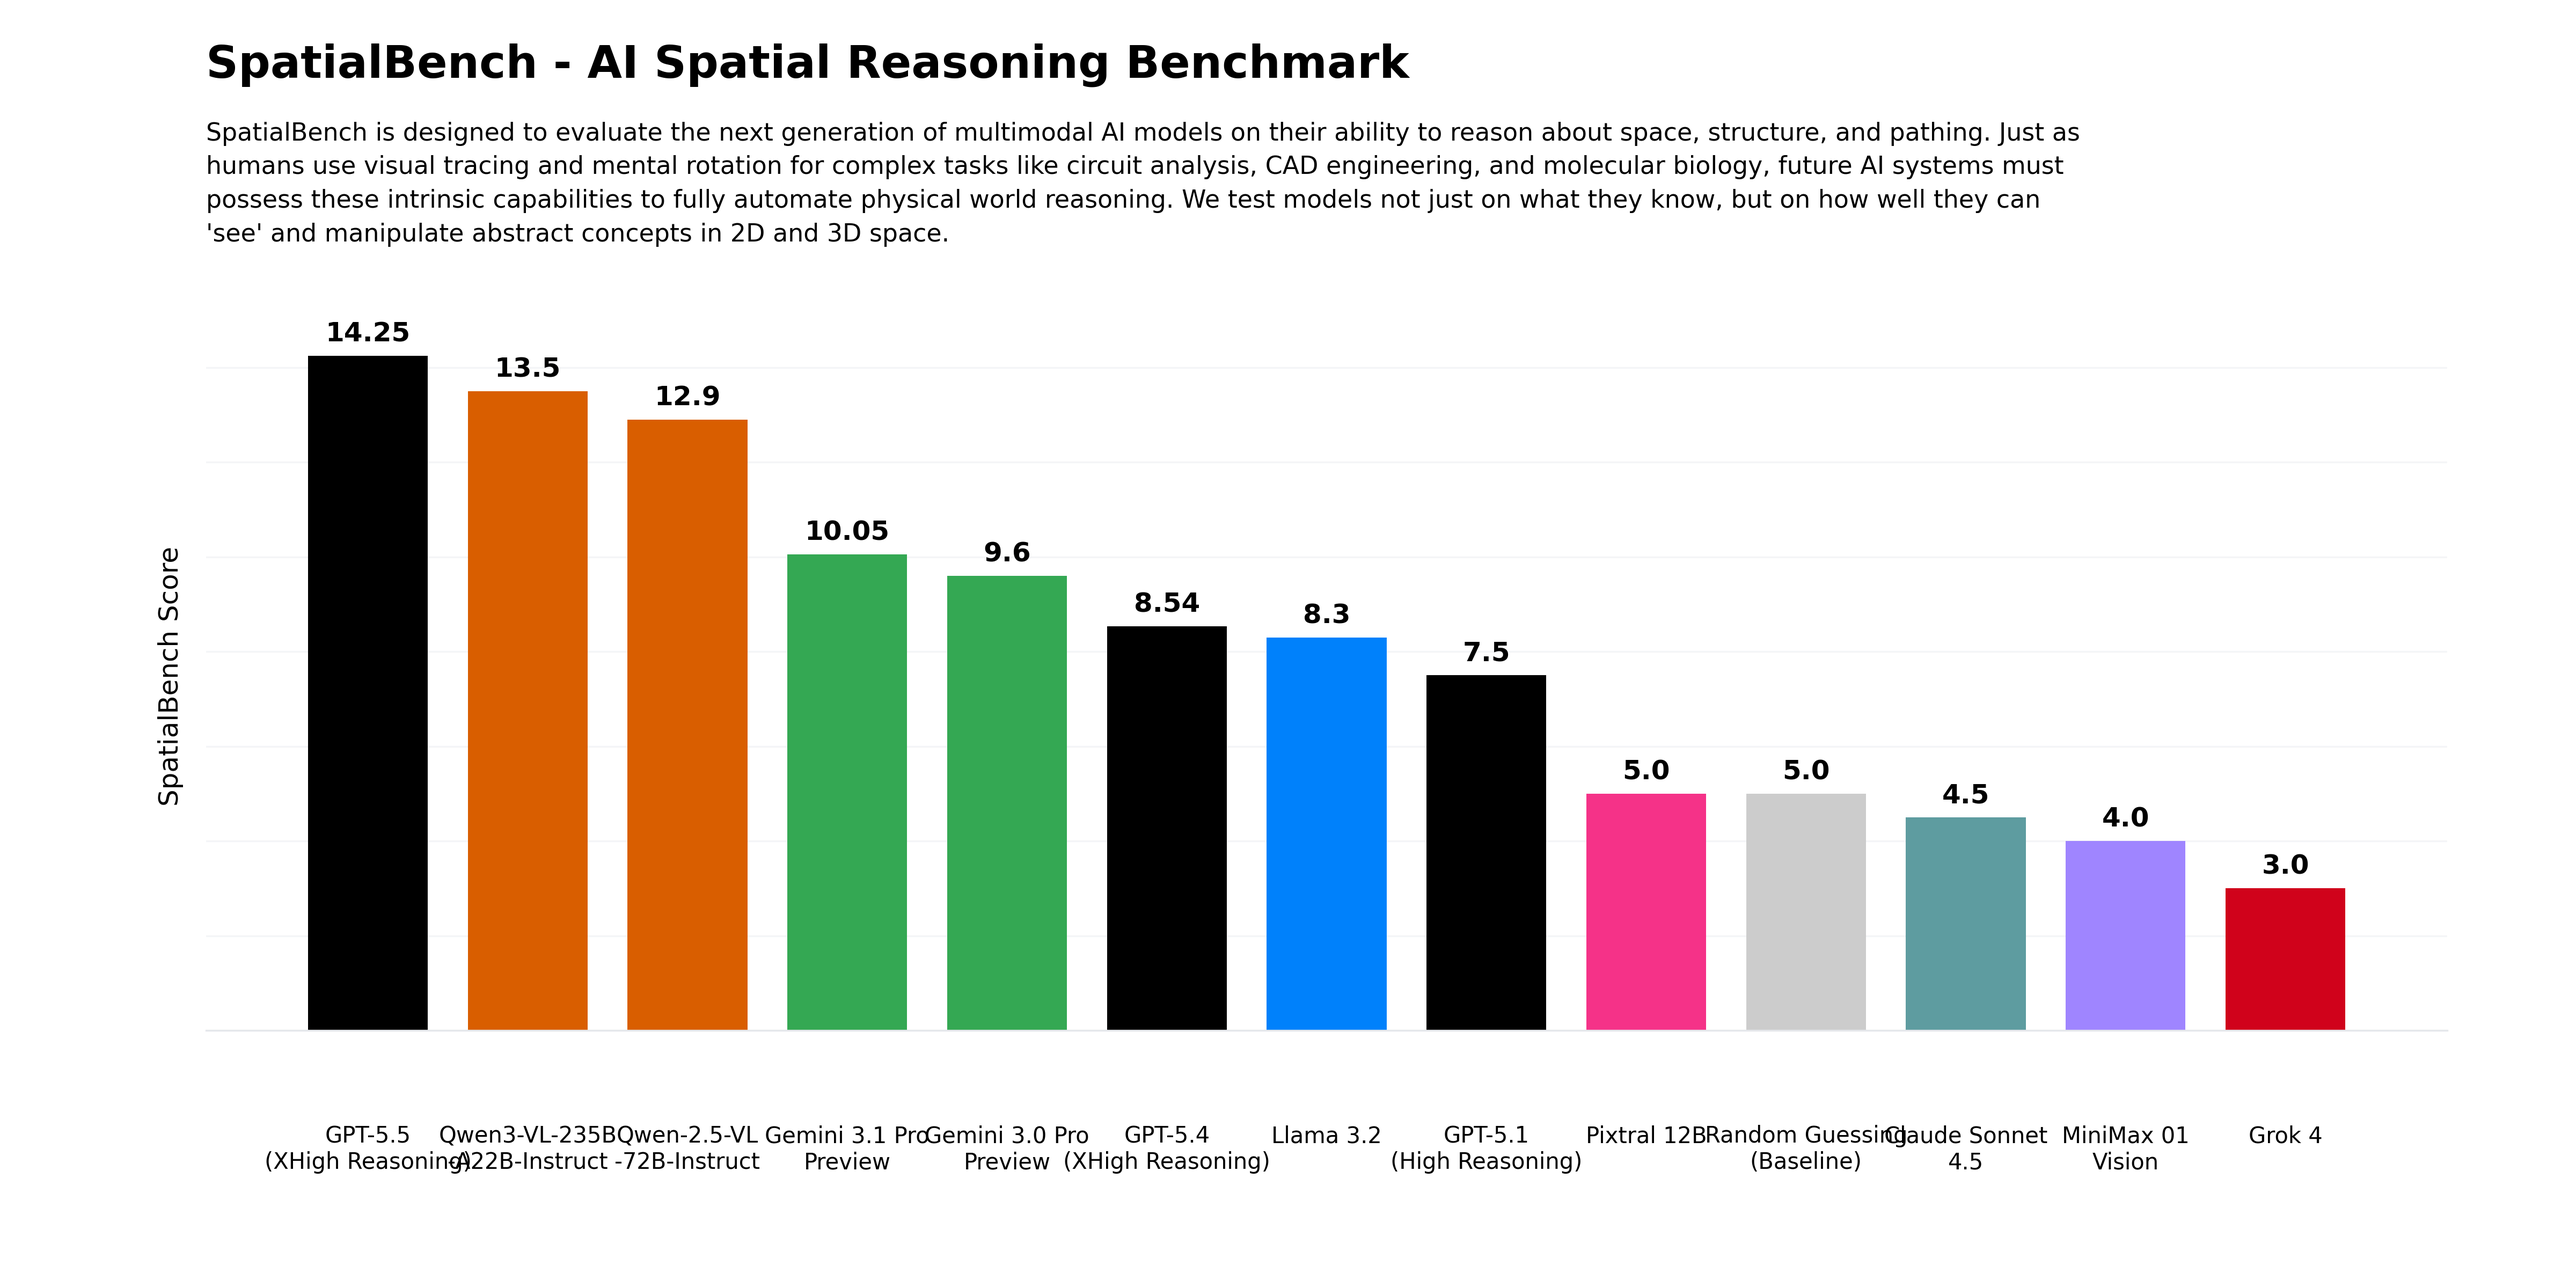
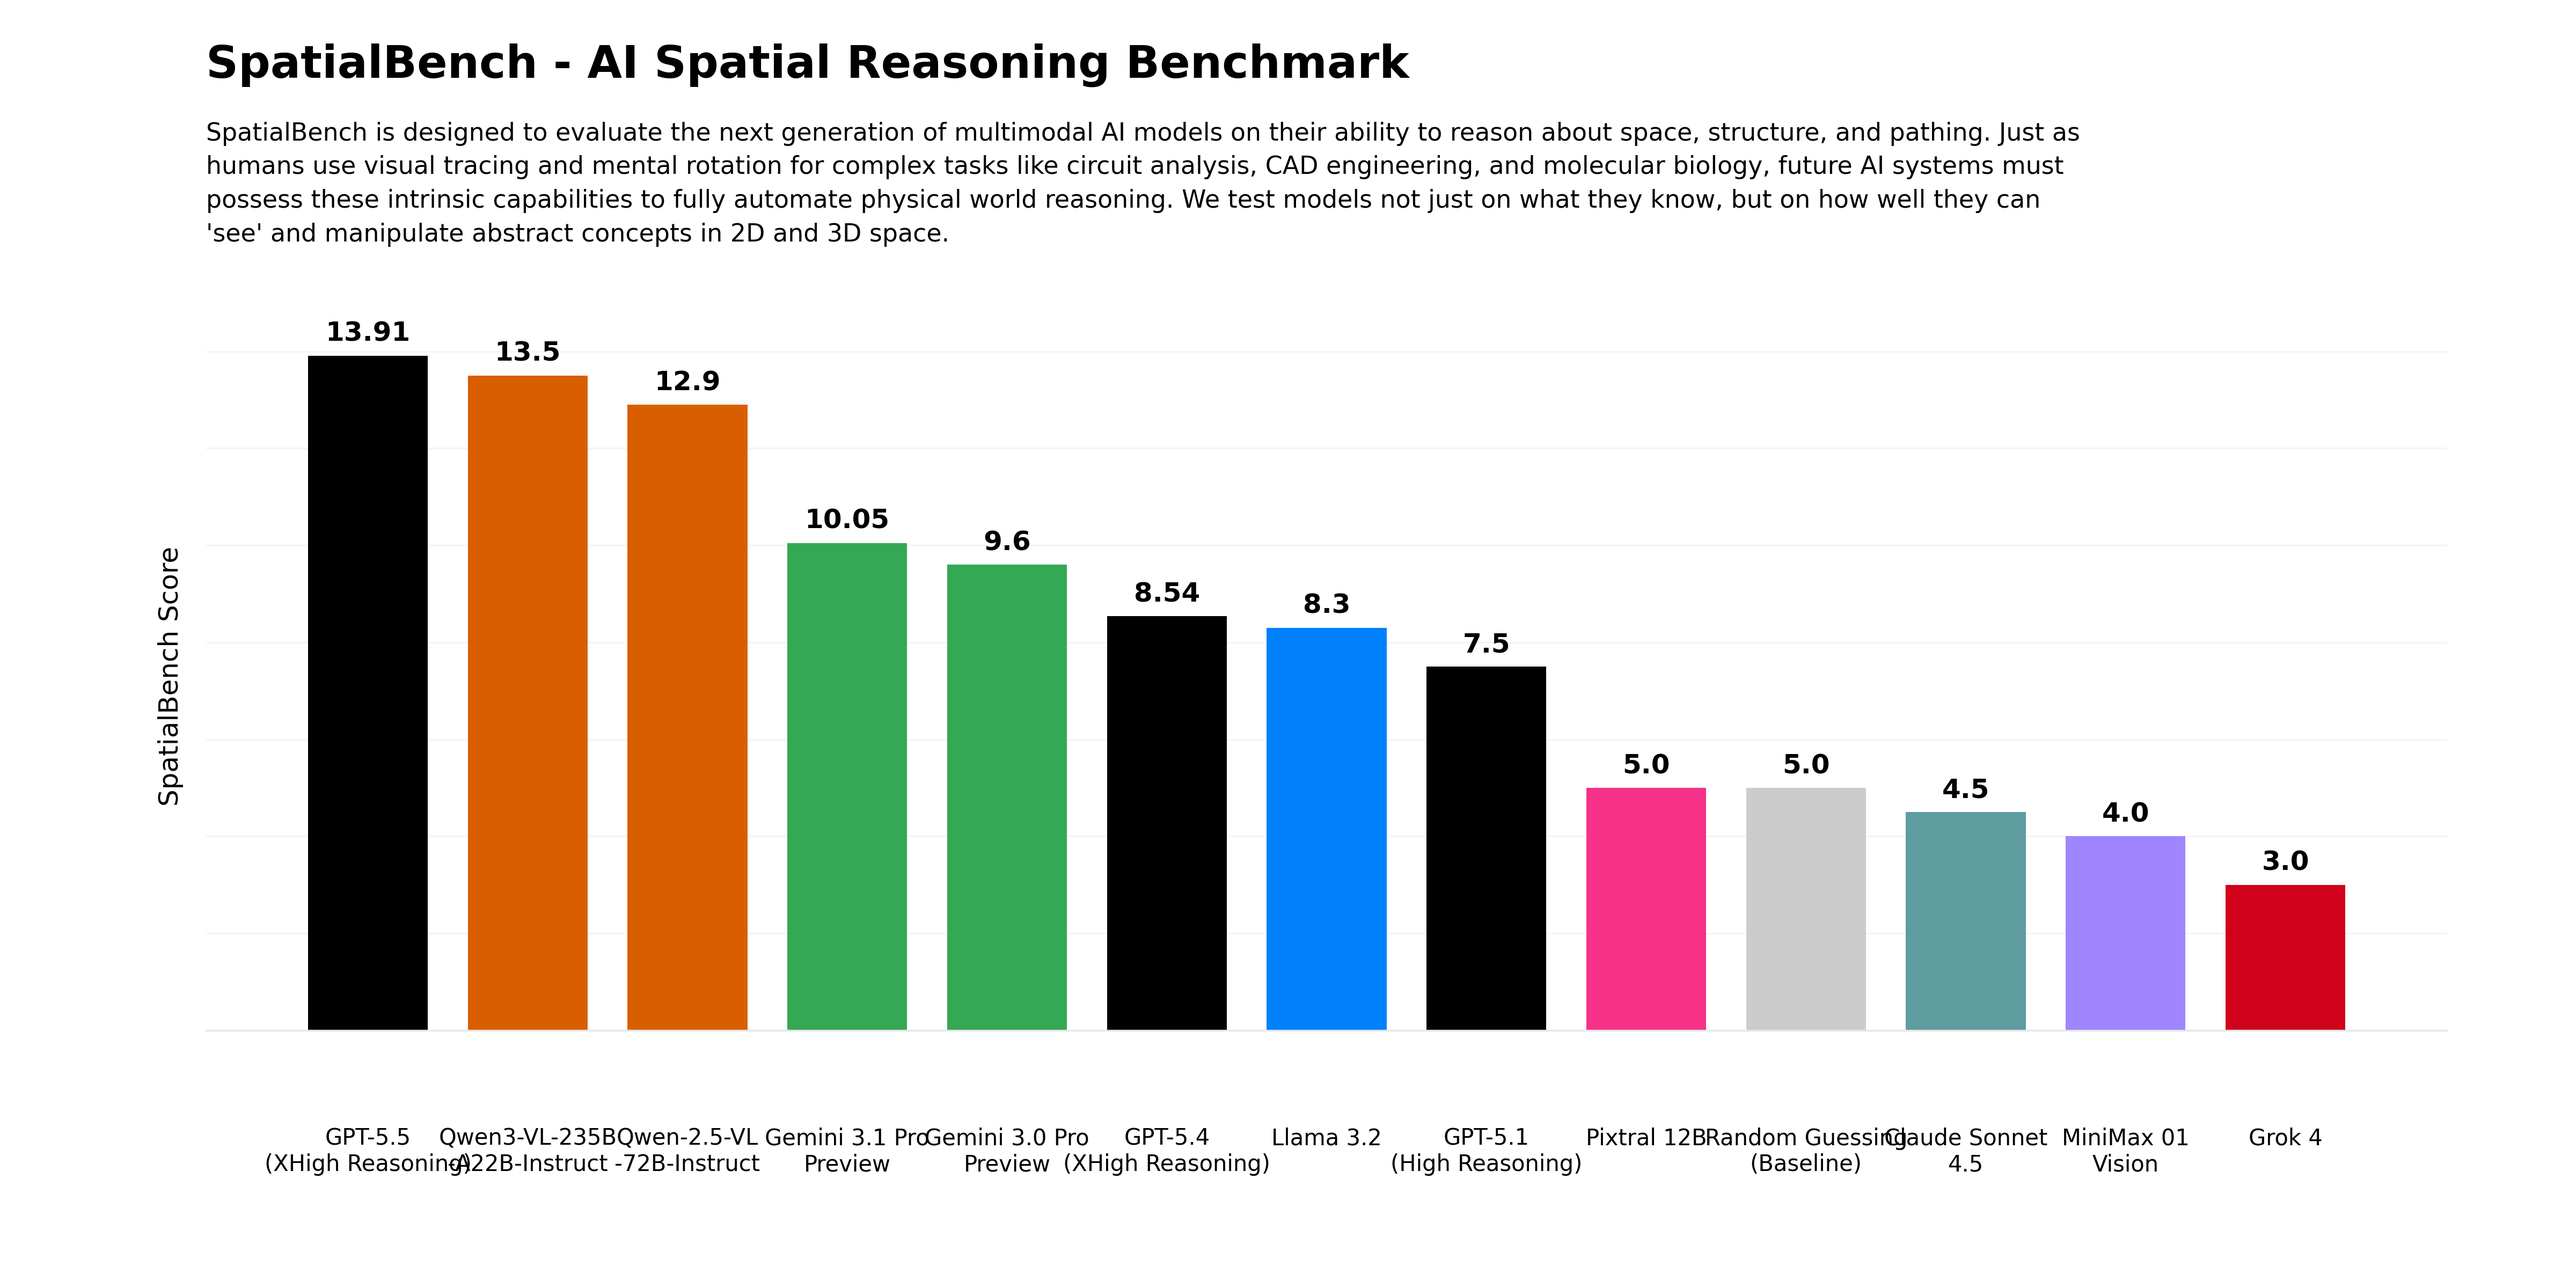
Update GPT-5.5 score to 13.91% after retest of 3d_test_14
Original run errored on 3d_test_14 with a JSON parse error.
Retest returned "D" (expected "C"). Score adjusted:
2D: 5/24 (20.83%), 3D: 7/24 (29.17%), final: 13.91% (was 14.25%).
Still rank #2.

Made-with: Cursor

diff --git a/src/components/BenchmarkLeaderboard.jsx b/src/components/BenchmarkLeaderboard.jsx
@@ -33,7 +33,7 @@ const COMPANY_LOGOS = {
 
 const BENCHMARK_DATA = [
   { rank: 1, model: 'Human Baseline', company: 'Human', pass1: 80.0, isBaseline: true },
-  { rank: 2, model: 'GPT-5.5 (XHigh Reasoning)', company: 'OpenAI', pass1: 14.25 },
+  { rank: 2, model: 'GPT-5.5 (XHigh Reasoning)', company: 'OpenAI', pass1: 13.91 },
   { rank: 3, model: 'Qwen3-VL-235B-A22B-Instruct', company: 'Qwen', pass1: 13.5 },
   { rank: 4, model: 'Qwen-2.5-VL-72B-Instruct', company: 'Qwen', pass1: 12.9 },
   { rank: 5, model: 'GPT-5.2', company: 'OpenAI', pass1: 10.27 },

diff --git a/scripts/generate_leaderboard_graph_v2.py b/scripts/generate_leaderboard_graph_v2.py
@@ -11,7 +11,7 @@ BASE_DIR = "/home/spicylemon/Documents/spatialbench"
 
 # Data
 data = [
-    {'model': 'GPT-5.5\n(XHigh Reasoning)', 'full_name': 'GPT-5.5\n(XHigh Reasoning)', 'company': 'OpenAI', 'score': 14.25, 'color': '#000000', 'logo': 'src/logos/openai.svg'},
+    {'model': 'GPT-5.5\n(XHigh Reasoning)', 'full_name': 'GPT-5.5\n(XHigh Reasoning)', 'company': 'OpenAI', 'score': 13.91, 'color': '#000000', 'logo': 'src/logos/openai.svg'},
     {'model': 'Qwen', 'full_name': 'Qwen3-VL-235B\n-A22B-Instruct', 'company': 'Qwen', 'score': 13.5, 'color': '#D95E00', 'logo': 'src/logos/qwen-color.svg'},
     {'model': 'Qwen', 'full_name': 'Qwen-2.5-VL\n-72B-Instruct', 'company': 'Qwen', 'score': 12.9, 'color': '#D95E00', 'logo': 'src/logos/qwen-color.svg'},
     {'model': 'Gemini 3.1 Pro\nPreview', 'full_name': 'Gemini 3.1 Pro\nPreview', 'company': 'Google', 'score': 10.05, 'color': '#34A853', 'logo': 'src/logos/gemini-color.svg'},

diff --git a/README.md b/README.md
@@ -20,7 +20,7 @@ Visit the live benchmark at: **https://spicylemonade.github.io/spatialbench/**
 Using the **Probability Equivalence Method**:
 
 - **Human Baseline**: 80.0%
-- **GPT-5.5 (XHigh Reasoning)**: 14.25%
+- **GPT-5.5 (XHigh Reasoning)**: 13.91%
 - **Gemini 3.1 Pro Preview**: 10.05%
 - **Gemini 3.0 Pro Preview**: 9.55%
 - **GPT-5.4 (XHigh Reasoning)**: 8.54%
